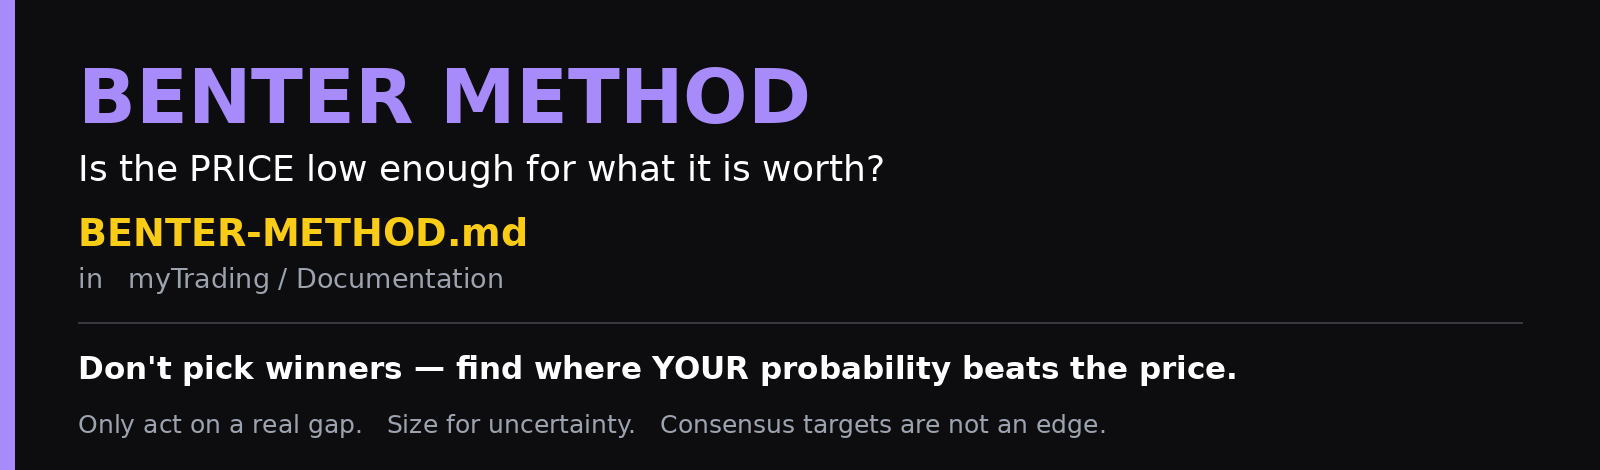
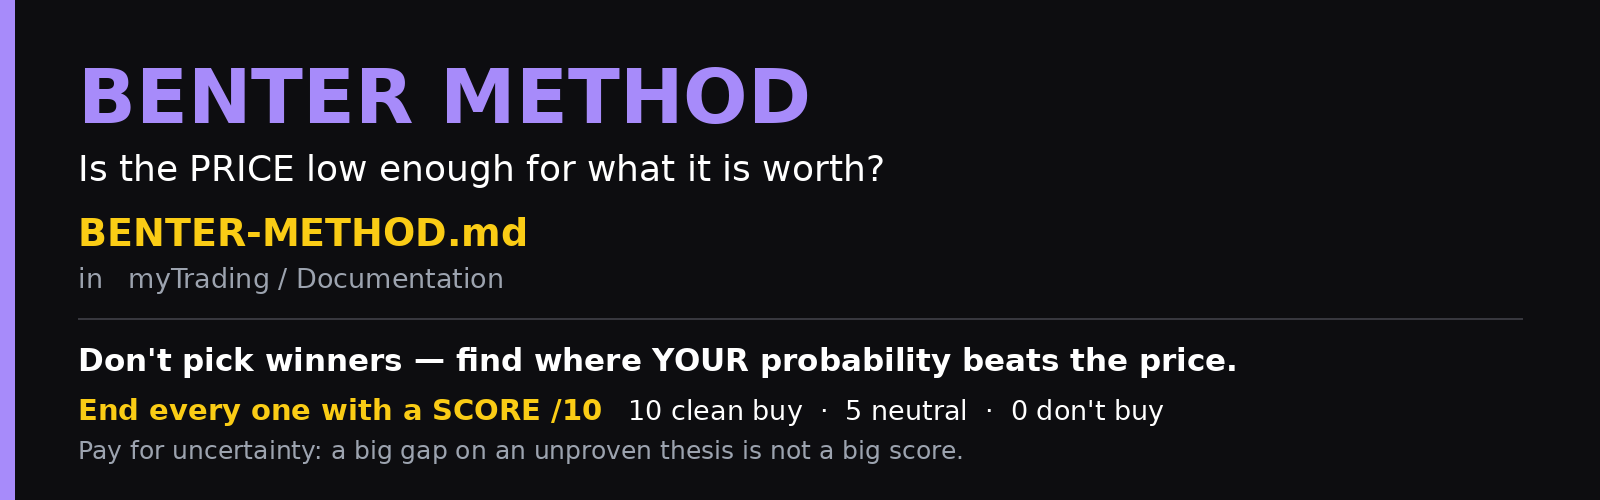
Benter doc ends with a score out of 10
Chakravarti: "add to document to in the end give a number out of 10.
If it's clean buy give 10, if it's neutral give 5, clear don't buy 0."

New §7. A written conclusion can hedge forever; a number has to
commit, and it makes two names comparable at a glance.

Given a RUBRIC rather than left to feel, so the same stock scores the
same way twice: a base from the size of the gap, then an explicit
discount for uncertainty (-1 high, -2 very high) and for the shape of
the disagreement. That second step is the method's whole argument —
"require a larger gap when uncertainty is high" — so leaving it out of
the score would have reproduced exactly the mistake §2 warns about.

The §4 examples are scored to show the rubric biting. SPCX has the
largest Street gap in the table and lands at 5, because -2 for an
early post-IPO thesis and -1 for a $75-to-$800 target range is what
wide disagreement about an unproven business costs. On headline gap
alone it would read as a buy.

Caveats included and meant: the number summarises judgement, it does
not calculate it; write it down with the date and inputs or it teaches
nothing about calibration; a 9 should feel rare; and score is not
position size — an 8 on a very-high-uncertainty name still gets sized
smaller.

The tile carries the scale too, since that is the step most likely to
be skipped. Its two labels were measured with textlength after a
guessed 452px offset printed them on top of each other.
[…]

diff --git a/reminder_notes/make_cards.py b/reminder_notes/make_cards.py
@@ -204,7 +204,7 @@ def benter() -> Path:
     enough relative to what it is worth. A name can pass one and fail the
     other — the doc's own AAPL example is exactly that.
     """
-    w, h = 1600, 470
+    w, h = 1600, 500
     img = Image.new("RGB", (w, h), BG)
     d = ImageDraw.Draw(img)
     d.rectangle([0, 0, 14, h], fill=VIOLET)
@@ -219,13 +219,22 @@ def benter() -> Path:
     d.text((78, 278), "in   myTrading / Documentation", font=font(27),
            fill=MUTED, anchor="lm")
 
-    d.line([(78, 322), (w - 78, 322)], fill=LINE, width=2)
-    d.text((78, 368),
+    d.line([(78, 318), (w - 78, 318)], fill=LINE, width=2)
+    d.text((78, 360),
            "Don't pick winners — find where YOUR probability beats the price.",
            font=font(31, True), fill=WHITE, anchor="lm")
-    d.text((78, 424),
-           "Only act on a real gap.   Size for uncertainty.   "
-           "Consensus targets are not an edge.",
+    # The scoring scale is on the tile because it is the bit that gets
+    # skipped: an analysis without a number can hedge forever.
+    # MEASURED, not a guessed offset. A fixed 452px put the scale on top of
+    # the label the first time — textlength is the only way to know.
+    lead, lf = "End every one with a SCORE /10", font(29, True)
+    d.text((78, 410), lead, font=lf, fill=AMBER, anchor="lm")
+    d.text((78 + d.textlength(lead, font=lf) + 26, 410),
+           "10 clean buy  ·  5 neutral  ·  0 don't buy",
+           font=font(27), fill=WHITE, anchor="lm")
+    d.text((78, 450),
+           "Pay for uncertainty: a big gap on an unproven thesis is not a big "
+           "score.",
            font=font(25), fill=MUTED, anchor="lm")
 
     img.save(OUT_BENTER, optimize=True)

diff --git a/Documentation/BENTER-METHOD.md b/Documentation/BENTER-METHOD.md
@@ -237,7 +237,106 @@ For every stock we examined, the process was:
   - Strongest public-model gaps: **NVDA**, **AVGO**, then **GOOGL** and **MRVL**.
   - Modest or contested: **TSLA**, **SPCX**.
   - Little/no gap: **AAPL**.
+- **Every analysis ends with a score out of 10** — see §7. 10 is a clean buy,
+  5 is neutral, 0 is a clear don't buy.
 - The framework is most useful as a **screening and discipline tool**, not as a mechanical buy signal. The real work is improving the quality of your probability estimates over time.
+
+---
+
+## 7. The Final Take — a score out of 10
+
+*Added 2026-10-16 at Chakravarti's request: every analysis must end with one
+number.*
+
+> **10 = clean buy · 5 = neutral · 0 = clear don't buy**
+
+A written conclusion can hedge forever. A number cannot — it forces the
+analysis to commit, and it makes two names comparable at a glance.
+
+### How to arrive at the number
+
+The score is the doc's two axes combined: **how big is the gap**, and **how
+much do you trust it**. Start from the gap, then pay for uncertainty.
+
+**Step 1 — base score from the gap** (upside to your probability-weighted
+value, or to consensus if that is all you have):
+
+| Gap | Base |
+|---|---|
+| > 40% | 8 |
+| 25 – 40% | 7 |
+| 15 – 25% | 6 |
+| 5 – 15% | 5 |
+| −5 – 5% | 3 |
+| < −5% (price above fair value) | 1 |
+
+**Step 2 — adjust for uncertainty**, which is the half people skip:
+
+| | |
+|---|---|
+| Low — predictable cash flows, tight range | **+1** |
+| Medium | **0** |
+| High — cyclical, competitive, execution-dependent | **−1** |
+| Very high — the thesis rests on something unproven | **−2** |
+
+**Step 3 — adjust for the shape of the disagreement:**
+
+| | |
+|---|---|
+| Strong Buy consensus *and* a relatively tight target range | **+1** |
+| Extreme spread, or a high average driven by two outliers | **−1** |
+
+Clamp to 0–10.
+
+### What each band means in practice
+
+| Score | Reading | What to do |
+|---|---|---|
+| **9–10** | Large gap, high confidence, little disagreement | Clean buy. Full size. |
+| **7–8** | Real gap, uncertainty understood and acceptable | Buy. Normal size. |
+| **6** | Gap present but thin, or confidence limited | Starter position, or wait for a better price. |
+| **5** | Fairly priced | Neutral. Hold what you own; no new money. |
+| **3–4** | Small gap carrying large risk, or a contested one | Don't buy. Not necessarily a sell. |
+| **0–2** | At or above fair value, or the thesis does not hold | Clear don't buy. Trim if held and sized up. |
+
+### The honest caveats
+
+- **The number is a summary of judgement, not a calculation.** The rubric
+  makes it repeatable, not objective. Two people will score the same stock
+  differently, and that is fine as long as *you* score consistently.
+- **Write the score down with the date and the inputs**, per §5's record step.
+  A score you cannot audit later teaches you nothing about your calibration.
+- **A 9 is rare and should feel rare.** If everything scores 8+, the rubric is
+  not being applied — most things most of the time are a 5.
+- **Score ≠ position size.** An 8 on a very high-uncertainty name still gets
+  sized smaller than an 8 on a predictable one. §5 step 5 governs size; this
+  governs whether to act at all.
+
+### The §4 examples, scored
+
+Using the same mid-October 2026 data — so these demonstrate the *scoring*, not
+a current view:
+
+| Stock | Gap | Base | Uncertainty | Disagreement | **Score** | Reading |
+|---|---|---|---|---|---|---|
+| **AVGO** | ~53% | 8 | High −1 | Strong Buy +1 | **8** | Buy |
+| **NVDA** | ~48–51% | 8 | High −1 | Strong Buy +1 | **8** | Buy |
+| **MRVL** | ~35–50% | 7 | High −1 | Strong/Mod +1 | **7** | Buy |
+| **GOOGL** | ~22–24% | 6 | Med-high −1 | Strong Buy +1 | **6** | Starter |
+| **MSFT** | ~10% | 5 | Medium 0 | Strong Buy +1 | **6** | Starter |
+| **AMD** | ~10–13% | 5 | High −1 | Strong Buy +1 | **5** | Neutral |
+| **SPCX** | ~50% | 8 | Very high −2 | Extreme spread −1 | **5** | Neutral |
+| **TSLA** | modest | 6 | Very high −2 | Wide range −1 | **3** | Don't buy |
+| **AAPL** | flat / negative | 2 | Medium 0 | Moderate Buy 0 | **2** | Don't buy |
+
+Note what the rubric does to **SPCX**: the largest Street gap in the table
+lands at a 5, because −2 for an early post-IPO thesis and −1 for a $75-to-$800
+target range is what "wide disagreement about an unproven business" costs. The
+headline gap alone would have made it a buy. That discount is the entire point
+of the method.
+
+And **TSLA at 3** is not a claim the company is bad — it says the gap on
+offer is too small for a valuation ~80% dependent on FSD and Optimus.
 
 ---
 
